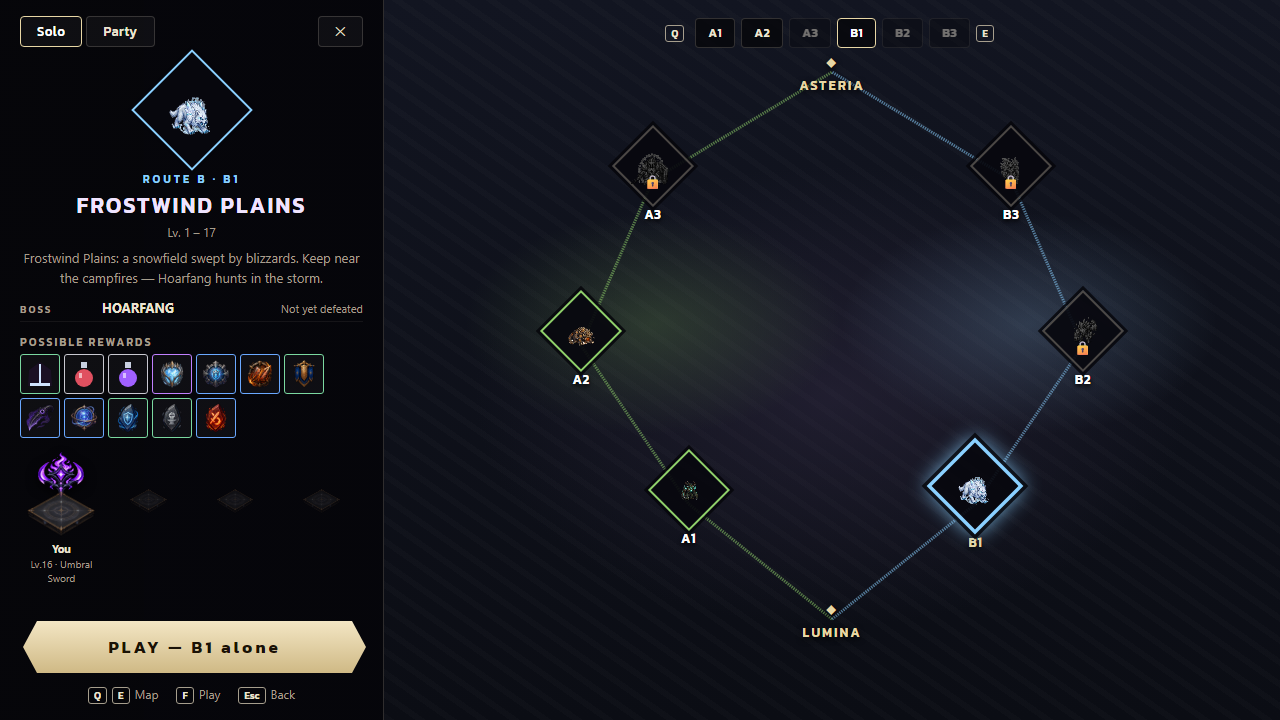
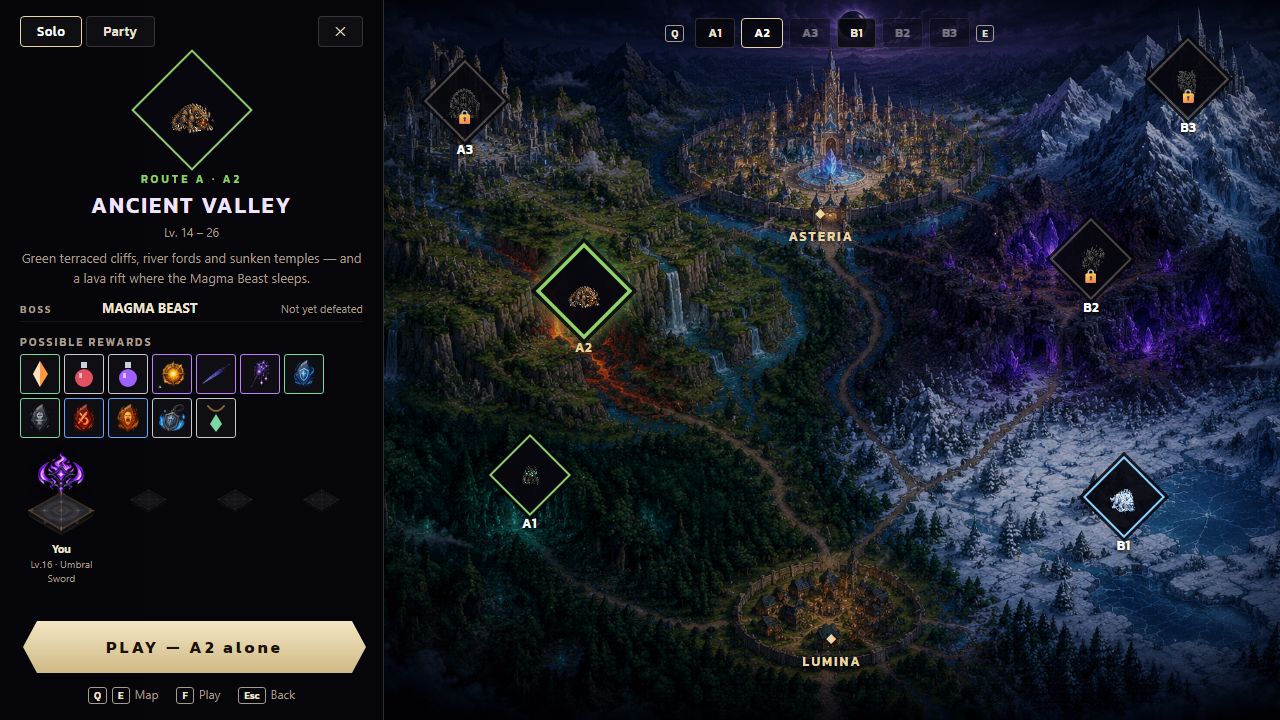
Map select: owner's painted world map, pins placed on it (cover-fit box keeps them in place)

diff --git a/src/data/worldMap.js b/src/data/worldMap.js
@@ -6,22 +6,23 @@
 //   cities : non-enterable landmarks drawn on the map (where the roads start / meet)
 //   roads  : polylines (percent points) drawn under the pins; route A / B colours
 export const WORLD_MAP = {
-  image: null, // set to 'assets/ui/worldmap.png' once the owner's painted map exists (null = the code-drawn map, no 404)
+  image: 'assets/ui/worldmap.png', // the owner's painted map (desgin/UI/worldmap.png, 1536×1024 = 3:2); null = the code-drawn map
+  aspect: 1.5,                     // width / height of the picture: pins are placed on a box of this shape (cover-fit)
   pins: {
-    a1: { x: 34, y: 70, boss: 'forest_guardian', desc: 'A whispering forest south of Lumina. Wolves, hares and treants guard the old ruins; the Guardian waits in its arena.' },
-    a2: { x: 22, y: 48, boss: 'magma_beast', desc: 'Green terraced cliffs, river fords and sunken temples — and a lava rift where the Magma Beast sleeps.' },
-    a3: { x: 30, y: 25, boss: 'rune_knight', desc: 'The fallen Rune Citadel: walled streets, bronze hoplites and sealed vaults. The Rune Knight holds the Sanctum.' },
-    b1: { x: 66, y: 70, boss: 'hoarfang', desc: 'Frostwind Plains: a snowfield swept by blizzards. Keep near the campfires — Hoarfang hunts in the storm.' },
-    b2: { x: 78, y: 48, boss: 'amethyst_colossus', desc: 'Crystal Caverns: dark chambers lit only by glow crystals. The Amethyst Colossus guards the Heart.' },
-    b3: { x: 70, y: 25, boss: 'crystal_warden', desc: 'Frostpeak: the colder you climb, the harder it bites. The Crystal Warden waits at the summit.' },
+    a1: { x: 22, y: 68, boss: 'forest_guardian', desc: 'A whispering forest south of Lumina. Wolves, hares and treants guard the old ruins; the Guardian waits in its arena.' },
+    a2: { x: 27, y: 43, boss: 'magma_beast', desc: 'Green terraced cliffs, river fords and sunken temples — and a lava rift where the Magma Beast sleeps.' },
+    a3: { x: 16, y: 16, boss: 'rune_knight', desc: 'The fallen Rune Citadel: walled streets, bronze hoplites and sealed vaults. The Rune Knight holds the Sanctum.' },
+    b1: { x: 77, y: 71, boss: 'hoarfang', desc: 'Frostwind Plains: a snowfield swept by blizzards. Keep near the campfires — Hoarfang hunts in the storm.' },
+    b2: { x: 74, y: 38, boss: 'amethyst_colossus', desc: 'Crystal Caverns: dark chambers lit only by glow crystals. The Amethyst Colossus guards the Heart.' },
+    b3: { x: 83, y: 13, boss: 'crystal_warden', desc: 'Frostpeak: the colder you climb, the harder it bites. The Crystal Warden waits at the summit.' },
   },
   cities: [
-    { id: 'lumina', name: 'Lumina', x: 50, y: 86 },
-    { id: 'city2', name: 'Asteria', x: 50, y: 10 },
+    { id: 'lumina', name: 'Lumina', x: 50, y: 90 },
+    { id: 'city2', name: 'Asteria', x: 49, y: 31 },
   ],
   roads: {
-    A: [[50, 86], [34, 70], [22, 48], [30, 25], [50, 10]],
-    B: [[50, 86], [66, 70], [78, 48], [70, 25], [50, 10]],
+    A: [[50, 90], [22, 68], [27, 43], [16, 16], [49, 31]],
+    B: [[50, 90], [77, 71], [74, 38], [83, 13], [49, 31]],
   },
   routeColor: { A: '#8fd06a', B: '#8ad0ff' },
 };

diff --git a/src/ui/panels.js b/src/ui/panels.js
@@ -658,8 +658,10 @@ export class Panels {
     const strip = areas.map((a) => `<button class="ms-chip${a.id === this.gateSel ? ' sel' : ''}${open(a) ? '' : ' locked'}" data-area="${a.id}">${esc(mm.get(a.id).short)}</button>`).join('');
     const el = this.show('gate', `<div class="ms">
       <div class="ms-map${this.worldMapArt ? ' art' : ''}">
-        <svg viewBox="0 0 100 100" preserveAspectRatio="none">${['A', 'B'].map((r) => `<polyline points="${pts(r)}" stroke="${routeCol(r)}"/>`).join('')}</svg>
-        ${cities}${pins}
+        <div class="ms-world" style="--ar:${W.aspect || 1.5};${this.worldMapArt ? `background-image:url(${W.image})` : ''}">
+          <svg viewBox="0 0 100 100" preserveAspectRatio="none">${['A', 'B'].map((r) => `<polyline points="${pts(r)}" stroke="${routeCol(r)}"/>`).join('')}</svg>
+          ${cities}${pins}
+        </div>
       </div>
       <div class="ms-top"><kbd>Q</kbd>${strip}<kbd>E</kbd></div>
       <div class="ms-side">

diff --git a/src/ui/theme.css b/src/ui/theme.css
@@ -495,3 +495,11 @@ kbd { display: inline-block; font: 600 10px var(--font-title); color: var(--ink)
 .ms-leave { margin: 0; }
 .ms-side .keys { padding: 10px 0 0; justify-content: center; }
 .ms-pin.sel b { margin-top: 18px; color: var(--hl); }
+/* the world box keeps the picture's shape (3:2) and covers the map area, so pins (% of the picture) stay on their spot */
+.ms-map { container-type: size; }
+.ms-map.art { background: #07080d; }
+.ms-world { position: absolute; left: 50%; top: 50%; transform: translate(-50%, -50%); aspect-ratio: var(--ar);
+  width: max(100cqw, calc(100cqh * var(--ar))); background: center / 100% 100% no-repeat; }
+.ms-map.art .ms-world::after { content: ""; position: absolute; inset: 0; pointer-events: none; background: radial-gradient(ellipse at 50% 50%, transparent 55%, rgba(4, 4, 8, 0.6)); }
+.ms-map.art polyline { display: none; } /* the painted map has its own roads */
+.ms-map.art .ms-pin, .ms-map.art .ms-city { z-index: 1; }
